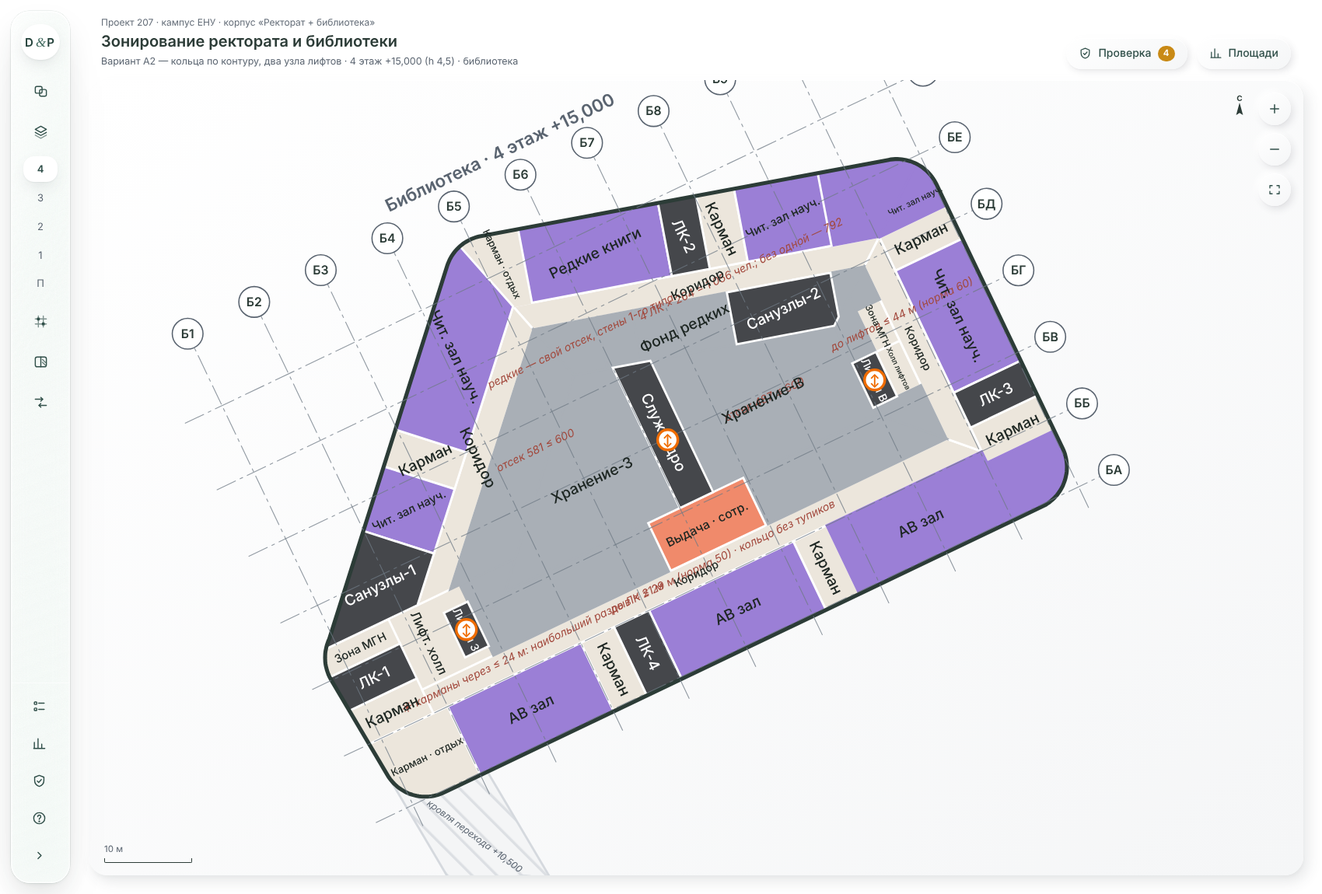
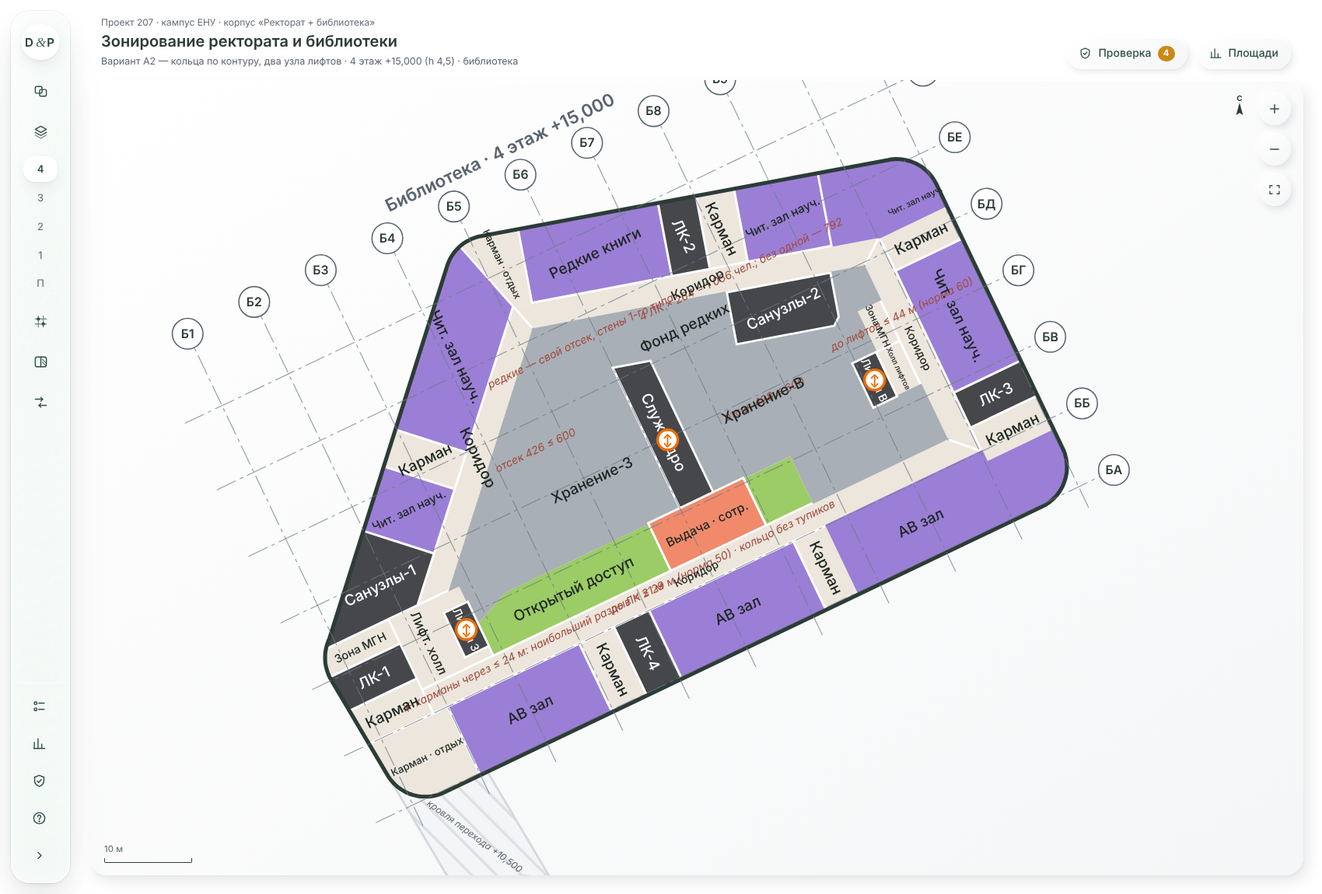
А2: программа по строкам табл. 26 ≥ 70 %, правки 1 этажа и подвала
Claude-Session: https://claude.ai/code/session_01PBUMDRyqQNphWJTD6zJTqL

diff --git a/agents/A2/LIB_A2.html b/agents/A2/LIB_A2.html
@@ -522,7 +522,8 @@ for(const f of ["2","3"]){
 }
 {const f="4",sw="4 этаж: хранение до кольцевого коридора (кольца ОД нет, задание); отсек ≤ 600 м² (п. 4.2.1.69); выходы в ядро и в коридор (п. 5.3.1.29); дверь в коридор — только эвакуационная, по пропуску.";
   PB(f,[15.6,38,-5,60],[sideP("S",CO,OI)],"z6","oa4","Открытый доступ","Открытый доступ научного отделения и АВ (4 эт.) при выдаче",oaW+" На 4 этаже — у пункта выдачи (А1 Г-2: на 4 эт. ОД не было).",{p:"store",nl:true});
-  PB(f,[50,90,-5,60],[sideP("S",CO,OI)],"z7","stE4","","Основное книгохранилище, восточный отсек (4 эт.)",sw,{p:"store",nl:true,jn:true});
+  PB(f,[50,56,-5,60],[sideP("S",CO,OI)],"z6","oa4b","","Открытый доступ научного отделения и АВ (4 эт.) при выдаче",oaW,{p:"store",nl:true});
+  PB(f,[56,90,-5,60],[sideP("S",CO,OI)],"z7","stE4","","Основное книгохранилище, восточный отсек (4 эт.)",sw,{p:"store",nl:true,jn:true});
   for(const key of ["CW","W1","W2"])PC(f,key,"z7","stW4",key==="CW"?"Хранение-З":"","Основное книгохранилище, западный отсек (4 эт.)",sw,{p:"store",nl:true,jn:true});
   for(const key of ["CE","E1","E2","E3","N3"])PC(f,key,"z7","stE4",key==="CE"?"Хранение-В":"","Основное книгохранилище, восточный отсек (4 эт.)",sw,{p:"store",nl:true,jn:true});
   PB(f,[38,50,-5,60],[sideP("S",CO,OI)],"z5","iss4","Выдача · сотр.","Пункт выдачи 4 этажа и рабочие места сотрудников хранения (52 м²)","У южного торца служебного ядра, смежно с обоими отсеками хранилища (табл. 26; СП РК 3.02-120 п. 4.4.10.8, по коллеге; А1 А-4); книги — книгоподъёмником. Без окна — отступление: окно здесь можно дать только за счёт зала.",{p:"store",nl:true});
@@ -585,8 +586,9 @@ for(const f of UP){
     "Главный вход — середина ЗСЗ-фасада (задание); доконтрольная зона (п. 3.108): гардероб — напротив входа, контроль — на юг, абонементы и лекционный зал — на север.");
   const kh="Зона за контролем (п. 3.108): холл у лифтов З и ЛК-1, ведёт в коридор Ю к каталогам и СБО.";
   PB(F,WV,[sideP("W",CI,CO),S1(-30,T_TOIL)],"cor","lhall","","Холл за контролем: лифты З, ЛК-1",kh,J);
-  PC(F,"W1","cor","lhall","","Холл за контролем: лифты З, ЛК-1",kh,J);
-  PB(F,WV,[sideP("W",CO,OI),S1(-30,T_TOIL)],"cor","lhall","","Холл за контролем: лифты З, ЛК-1",kh,J);
+  const ek="Зона электронного каталога у лифтов, за контролем: терминалы ЭК вместо части карточных каталогов (решение архитектора); без постоянных рабочих мест — без окон допустимо.";
+  PC(F,"W1","z1","ekat","","Зона электронного каталога (терминалы)",ek,{p:"cat",nl:true,jn:true});
+  PB(F,WV,[sideP("W",CO,OI),S1(-30,T_TOIL)],"z1","ekat","ЭК","Зона электронного каталога (терминалы)",ek,{p:"cat",nl:true,jn:true});
   const cw="Один пост контроля на входе в зону за контролем (п. 3.108; А1 В-1, В-2): турникеты и распашная аварийная створка 1,2 м (СН РК 2.02-01 п. 5.2.2, по коллеге; А1 Е-8).";
   PB(F,WV,[sideP("W",CI,CO),S1(T_TOIL,29.5)],"z1","ctrl","Контроль","Пункт контроля: турникеты и аварийная створка",cw,J);
   PB(F,WV,[sideP("W",CO,OI),S1(T_TOIL,29.5)],"z1","ctrl","","Пункт контроля: турникеты и аварийная створка",cw,J);
@@ -608,7 +610,7 @@ for(const f of UP){
   PC(F,"SD","cor","svh","","Служебный холл у ядра (тамбур книгоподъёмников)",sh,J);
   PB(F,[46.2,56.2,-5,60],[sideP("S",CO,OI)],"cor","svh","Служ. холл","Служебный холл у ядра (тамбур книгоподъёмников)",sh,J);
   PB(F,[56.2,90,11.4,13.8],[sideP("S",CO,OI)],"cor","svh","","Служебный холл у ядра (тамбур книгоподъёмников)",sh,J);
-  PB(F,[56.2,90,13.8,60],[sideP("S",CO,OI)],"z7","svcS","Кладовые","Служебно-производственные: кладовые, обменный фонд","Служебная зона; без окон (п. 5.4.6.4 — кладовые).",{p:"serv",nl:true});
+  PB(F,[56.2,90,13.8,60],[sideP("S",CO,OI)],"z7","abF3","Фонд абонем.","Фонд абонементов (служебная часть): резерв и обменный фонд","Служебная зона, у служебного холла и ядра; книги к выдаче абонементов — через ядро; без окон — стеллажи.",{p:"abon",nl:true});
   PC(F,"E1","cor","exped","Экспедиция","Экспедиция: зона приёмки у служебного входа","У служебного входа, напротив обработки (п. 3.109; путь книги ≤ 15 м); связывает служебный коридор В и служебный холл у ядра.");
   PC(F,"E2","z5","eat","","Комната приёма пищи персонала","СН РК 3.02-08 п. 5.4.4.29; у лифтов В и санузла персонала; под ней в подвале — венткамера, не хранение (п. 4.4.10.11).",{p:"serv",nl:true,jn:true});
   PC(F,"E3","z5","eat","Приём пищи","Комната приёма пищи персонала","Служебная зона.",{p:"serv",nl:true,jn:true});
@@ -620,8 +622,8 @@ for(const f of UP){
     "При служебном входе (п. 3.109; СН РК 3.02-08 п. 5.4.4.23); сухое помещение над хранением подвала; вход из служебного холла у ядра.",{p:"serv",nl:true});
   PB(F,[56,90,-5,60],[quad(OI)],"z7","abF2","Фонд абонем.","Фонд абонементов (служебная часть) и обменный фонд","За выдачей абонементов, у ядра и лифтов В; без окон — стеллажи (п. 5.4.6.4).",{p:"abon",nl:true});
   // — фасады 1 этажа —
-  L(F,-3,8.4,-1,8.4,"core","wcK","Санузел","Санузел читателей за контролем (М, Ж, МГН)","В зоне за контролем есть санузлы (пособие п. 3.108; А1 З-7); под ним в подвале — насосная, не хранение.");
-  L(F,8.4,25,-1,8.4,"z1","cat","Каталоги","Читательские каталоги и электронный каталог (с окнами)",
+  L(F,-3,3.6,-1,8.4,"core","wcK","Санузел","Санузел читателей за контролем (М, Ж, МГН)","В зоне за контролем есть санузлы (пособие п. 3.108; А1 З-7); под ним в подвале — насосная, не хранение.");
+  L(F,3.6,25,-1,8.4,"z1","cat","Каталоги","Читательские каталоги и электронный каталог (с окнами)",
     "За контролем (п. 3.108), окна ЮЮВ — рабочие места с дневным светом (п. 3.40; А1 Ж-2); часть карточных каталогов — электронный поиск (решение архитектора).",{p:"cat"});
   L(F,33.8,52,-1,8.4,"z1","sbo","СБО","Справочно-библиографический отдел (с окнами)","За контролем, окна ЮЮВ (п. 3.40).",{p:"cat"});
   L(F,56.2,64.6,-1,8.4,"z5","mba","МБА","Межбиблиотечный абонемент","1 этаж (решение архитектора); окно выдачи — в карман Ю-2 зоны за контролем, вход сотрудников — из служебного коридора: между читателем и служебной зоной.",{p:"serv"});
@@ -677,20 +679,20 @@ for(const f of UP){
   PB(F,WV,[WB,strip(T_TOIL,36)],"z7","elec","Электрощитовая","Электрощитовая, ВРУ","≥ 9 м от хранения (решение архитектора): за коридором и лабораторией копирования; отдельная противопожарная секция.",NL);
   PB(F,WV,[WB,strip(36,45)],"z7","srv","Серверная","Серверная и слаботочные системы","Сухое, у электрощитовой.",NL);
   const aw="Служебно-производственные помещения подвала: архив, хозяйственные кладовые, переплётные материалы (табл. 26); сухие, у коридора.";
-  PB(F,WV,[WB,strip(45,54.5)],"z7","ventW","Венткамеры","Приточно-вытяжные венткамеры (под вестибюлем)","Сухие; над ними вестибюль, не залы и не рабочие помещения (СН РК п. 5.1.10).",NL);
+  PB(F,WV,[WB,strip(45,54.5)],"z7","arch2","Архив","Служебно-производственные: архив библиотеки",aw,{p:"serv",nl:true});
   PB(F,WV,[WB,strip(54.5,80)],"z7","arch","Архив, кладовые","Служебно-производственные: архив и кладовые (СЗ)",aw,{p:"serv",nl:true,...J});
   PB(F,ALL,[NB_,stripN(-60,40.2)],"z7","arch","","Служебно-производственные: архив и кладовые (СЗ)",aw,{p:"serv",nl:true,...J});
-  PB(F,ALL,[NB_,stripN(44.6,58.7)],"z7","arch","","Служебно-производственные: архив и кладовые (С)",aw,{p:"serv",nl:true,...J});
+  PB(F,ALL,[NB_,stripN(44.6,58.7)],"z5","bind","Переплётная","Лаборатория реставрации: переплётная и дезинфекция",lw+" У коридора С, рядом с реставрацией.",{p:"serv",nl:true});
   PB(F,ALL,[NB_,stripN(58.7,120)],"z7","fire","АУПТ","Станция пожаротушения (спринклеры во всём здании, газ — хранилища)","Выбор А1 (расхождение 1): АУПТ во всём здании; насосная — у ЛК-2 и выхода (допущение).",{nl:true,...J});
   PB(F,[-5,90,35.4,60],[EB],"z7","fire","","Станция пожаротушения","Часть станции, СВ угол.",{nl:true,...J});
   PB(F,[-5,90,31.2,35.4],[EB],"z7","vent2","Венткамера","Приточно-вытяжная венткамера (В)","Сухое помещение; основное вентоборудование — на кровле (допущение).",NL);
   PB(F,[-5,90,15.8,31.2],[EB],"z7","bst4","Хранение П-4","Основное книгохранилище, подвал, отсек П-4 (В)",sw,{p:"store",nl:true});
   L(F,75.8,90,7.0,11.4,"z7","comp3","","Компактное хранение, отсек К-2",cw,{p:"store",nl:true,...J});
   L(F,25,29.4,-1,8.4,"z7","comp1","","Компактное хранение, отсек К-1",cw,{p:"store",nl:true,jn:true});
-  L(F,52,56.2,-1,8.4,"z7","vent5","Венткамера","Венткамера (Ю-2)","Сухое помещение между отсеками компактного хранения.",NL);
+  L(F,52,56.2,-1,8.4,"z7","comp3","","Компактное хранение, отсек К-2",cw,{p:"store",nl:true,jn:true});
   NOTES.push({f:F,c:"LIB",u:44,v:9.9,t:"перегородка 1-го типа по u 46,2: секция З ≈ 1 900 м² · секция В ≈ 1 900 м² (≤ 3 000), в каждой ≥ 2 выхода"},
     {f:F,c:"LIB",u:30,v:24,t:"П-1 ≤ 600 · выходы: коридор Ю и ядро"},{f:F,c:"LIB",u:58,v:22,t:"П-2 ≤ 600 · выходы: коридор Ю и ядро"},
-    {f:F,c:"LIB",u:8,v:30,t:"электрощитовая ≥ 9 м от хранения"});
+    {f:F,c:"LIB",u:8,v:30,t:"электрощитовая ≥ 9 м от хранения"},{f:F,c:"LIB",u:30,v:-3,t:"основное вентоборудование — на кровле (допущение)"});
 }
 
 // ═════════ ВХОДЫ, ВЕРТИКАЛИ ═════════
@@ -724,7 +726,7 @@ for(const f of UP){
   NOTES.push({f,c:"LIB",u:74.3,v:26,t:"до лифтов ≤ 44 м (норма 60)"});
   NOTES.push({f,c:"LIB",u:60,v:38.5,t:"4 ЛК × 264 = 1 056 чел.; без одной — 792"});
   if(f!=="4")NOTES.push({f,c:"LIB",u:30,v:30,t:"отсек ≤ 600"},{f,c:"LIB",u:56,v:24,t:"отсек ≤ 600"});
-  else NOTES.push({f,c:"LIB",u:30,v:30,t:"отсек 581 ≤ 600"},{f,c:"LIB",u:56,v:24,t:"отсек 487 ≤ 600"},{f,c:"LIB",u:40,v:39,t:"редкие — свой отсек, стены 1-го типа"});
+  else NOTES.push({f,c:"LIB",u:30,v:30,t:"отсек 426 ≤ 600"},{f,c:"LIB",u:56,v:24,t:"отсек 428 ≤ 600"},{f,c:"LIB",u:40,v:39,t:"редкие — свой отсек, стены 1-го типа"});
 }
 NOTES.push({f:"2",c:"LIB",u:2,v:4,t:"стена и двери 1-го типа к переходу"});
 

diff --git a/agents/A2/zoning_A2.js b/agents/A2/zoning_A2.js
@@ -137,7 +137,8 @@ for(const f of ["2","3"]){
 }
 {const f="4",sw="4 этаж: хранение до кольцевого коридора (кольца ОД нет, задание); отсек ≤ 600 м² (п. 4.2.1.69); выходы в ядро и в коридор (п. 5.3.1.29); дверь в коридор — только эвакуационная, по пропуску.";
   PB(f,[15.6,38,-5,60],[sideP("S",CO,OI)],"z6","oa4","Открытый доступ","Открытый доступ научного отделения и АВ (4 эт.) при выдаче",oaW+" На 4 этаже — у пункта выдачи (А1 Г-2: на 4 эт. ОД не было).",{p:"store",nl:true});
-  PB(f,[50,90,-5,60],[sideP("S",CO,OI)],"z7","stE4","","Основное книгохранилище, восточный отсек (4 эт.)",sw,{p:"store",nl:true,jn:true});
+  PB(f,[50,56,-5,60],[sideP("S",CO,OI)],"z6","oa4b","","Открытый доступ научного отделения и АВ (4 эт.) при выдаче",oaW,{p:"store",nl:true});
+  PB(f,[56,90,-5,60],[sideP("S",CO,OI)],"z7","stE4","","Основное книгохранилище, восточный отсек (4 эт.)",sw,{p:"store",nl:true,jn:true});
   for(const key of ["CW","W1","W2"])PC(f,key,"z7","stW4",key==="CW"?"Хранение-З":"","Основное книгохранилище, западный отсек (4 эт.)",sw,{p:"store",nl:true,jn:true});
   for(const key of ["CE","E1","E2","E3","N3"])PC(f,key,"z7","stE4",key==="CE"?"Хранение-В":"","Основное книгохранилище, восточный отсек (4 эт.)",sw,{p:"store",nl:true,jn:true});
   PB(f,[38,50,-5,60],[sideP("S",CO,OI)],"z5","iss4","Выдача · сотр.","Пункт выдачи 4 этажа и рабочие места сотрудников хранения (52 м²)","У южного торца служебного ядра, смежно с обоими отсеками хранилища (табл. 26; СП РК 3.02-120 п. 4.4.10.8, по коллеге; А1 А-4); книги — книгоподъёмником. Без окна — отступление: окно здесь можно дать только за счёт зала.",{p:"store",nl:true});
@@ -200,8 +201,9 @@ for(const f of UP){
     "Главный вход — середина ЗСЗ-фасада (задание); доконтрольная зона (п. 3.108): гардероб — напротив входа, контроль — на юг, абонементы и лекционный зал — на север.");
   const kh="Зона за контролем (п. 3.108): холл у лифтов З и ЛК-1, ведёт в коридор Ю к каталогам и СБО.";
   PB(F,WV,[sideP("W",CI,CO),S1(-30,T_TOIL)],"cor","lhall","","Холл за контролем: лифты З, ЛК-1",kh,J);
-  PC(F,"W1","cor","lhall","","Холл за контролем: лифты З, ЛК-1",kh,J);
-  PB(F,WV,[sideP("W",CO,OI),S1(-30,T_TOIL)],"cor","lhall","","Холл за контролем: лифты З, ЛК-1",kh,J);
+  const ek="Зона электронного каталога у лифтов, за контролем: терминалы ЭК вместо части карточных каталогов (решение архитектора); без постоянных рабочих мест — без окон допустимо.";
+  PC(F,"W1","z1","ekat","","Зона электронного каталога (терминалы)",ek,{p:"cat",nl:true,jn:true});
+  PB(F,WV,[sideP("W",CO,OI),S1(-30,T_TOIL)],"z1","ekat","ЭК","Зона электронного каталога (терминалы)",ek,{p:"cat",nl:true,jn:true});
   const cw="Один пост контроля на входе в зону за контролем (п. 3.108; А1 В-1, В-2): турникеты и распашная аварийная створка 1,2 м (СН РК 2.02-01 п. 5.2.2, по коллеге; А1 Е-8).";
   PB(F,WV,[sideP("W",CI,CO),S1(T_TOIL,29.5)],"z1","ctrl","Контроль","Пункт контроля: турникеты и аварийная створка",cw,J);
   PB(F,WV,[sideP("W",CO,OI),S1(T_TOIL,29.5)],"z1","ctrl","","Пункт контроля: турникеты и аварийная створка",cw,J);
@@ -223,7 +225,7 @@ for(const f of UP){
   PC(F,"SD","cor","svh","","Служебный холл у ядра (тамбур книгоподъёмников)",sh,J);
   PB(F,[46.2,56.2,-5,60],[sideP("S",CO,OI)],"cor","svh","Служ. холл","Служебный холл у ядра (тамбур книгоподъёмников)",sh,J);
   PB(F,[56.2,90,11.4,13.8],[sideP("S",CO,OI)],"cor","svh","","Служебный холл у ядра (тамбур книгоподъёмников)",sh,J);
-  PB(F,[56.2,90,13.8,60],[sideP("S",CO,OI)],"z7","svcS","Кладовые","Служебно-производственные: кладовые, обменный фонд","Служебная зона; без окон (п. 5.4.6.4 — кладовые).",{p:"serv",nl:true});
+  PB(F,[56.2,90,13.8,60],[sideP("S",CO,OI)],"z7","abF3","Фонд абонем.","Фонд абонементов (служебная часть): резерв и обменный фонд","Служебная зона, у служебного холла и ядра; книги к выдаче абонементов — через ядро; без окон — стеллажи.",{p:"abon",nl:true});
   PC(F,"E1","cor","exped","Экспедиция","Экспедиция: зона приёмки у служебного входа","У служебного входа, напротив обработки (п. 3.109; путь книги ≤ 15 м); связывает служебный коридор В и служебный холл у ядра.");
   PC(F,"E2","z5","eat","","Комната приёма пищи персонала","СН РК 3.02-08 п. 5.4.4.29; у лифтов В и санузла персонала; под ней в подвале — венткамера, не хранение (п. 4.4.10.11).",{p:"serv",nl:true,jn:true});
   PC(F,"E3","z5","eat","Приём пищи","Комната приёма пищи персонала","Служебная зона.",{p:"serv",nl:true,jn:true});
@@ -235,8 +237,8 @@ for(const f of UP){
     "При служебном входе (п. 3.109; СН РК 3.02-08 п. 5.4.4.23); сухое помещение над хранением подвала; вход из служебного холла у ядра.",{p:"serv",nl:true});
   PB(F,[56,90,-5,60],[quad(OI)],"z7","abF2","Фонд абонем.","Фонд абонементов (служебная часть) и обменный фонд","За выдачей абонементов, у ядра и лифтов В; без окон — стеллажи (п. 5.4.6.4).",{p:"abon",nl:true});
   // — фасады 1 этажа —
-  L(F,-3,8.4,-1,8.4,"core","wcK","Санузел","Санузел читателей за контролем (М, Ж, МГН)","В зоне за контролем есть санузлы (пособие п. 3.108; А1 З-7); под ним в подвале — насосная, не хранение.");
-  L(F,8.4,25,-1,8.4,"z1","cat","Каталоги","Читательские каталоги и электронный каталог (с окнами)",
+  L(F,-3,3.6,-1,8.4,"core","wcK","Санузел","Санузел читателей за контролем (М, Ж, МГН)","В зоне за контролем есть санузлы (пособие п. 3.108; А1 З-7); под ним в подвале — насосная, не хранение.");
+  L(F,3.6,25,-1,8.4,"z1","cat","Каталоги","Читательские каталоги и электронный каталог (с окнами)",
     "За контролем (п. 3.108), окна ЮЮВ — рабочие места с дневным светом (п. 3.40; А1 Ж-2); часть карточных каталогов — электронный поиск (решение архитектора).",{p:"cat"});
   L(F,33.8,52,-1,8.4,"z1","sbo","СБО","Справочно-библиографический отдел (с окнами)","За контролем, окна ЮЮВ (п. 3.40).",{p:"cat"});
   L(F,56.2,64.6,-1,8.4,"z5","mba","МБА","Межбиблиотечный абонемент","1 этаж (решение архитектора); окно выдачи — в карман Ю-2 зоны за контролем, вход сотрудников — из служебного коридора: между читателем и служебной зоной.",{p:"serv"});
@@ -292,20 +294,20 @@ for(const f of UP){
   PB(F,WV,[WB,strip(T_TOIL,36)],"z7","elec","Электрощитовая","Электрощитовая, ВРУ","≥ 9 м от хранения (решение архитектора): за коридором и лабораторией копирования; отдельная противопожарная секция.",NL);
   PB(F,WV,[WB,strip(36,45)],"z7","srv","Серверная","Серверная и слаботочные системы","Сухое, у электрощитовой.",NL);
   const aw="Служебно-производственные помещения подвала: архив, хозяйственные кладовые, переплётные материалы (табл. 26); сухие, у коридора.";
-  PB(F,WV,[WB,strip(45,54.5)],"z7","ventW","Венткамеры","Приточно-вытяжные венткамеры (под вестибюлем)","Сухие; над ними вестибюль, не залы и не рабочие помещения (СН РК п. 5.1.10).",NL);
+  PB(F,WV,[WB,strip(45,54.5)],"z7","arch2","Архив","Служебно-производственные: архив библиотеки",aw,{p:"serv",nl:true});
   PB(F,WV,[WB,strip(54.5,80)],"z7","arch","Архив, кладовые","Служебно-производственные: архив и кладовые (СЗ)",aw,{p:"serv",nl:true,...J});
   PB(F,ALL,[NB_,stripN(-60,40.2)],"z7","arch","","Служебно-производственные: архив и кладовые (СЗ)",aw,{p:"serv",nl:true,...J});
-  PB(F,ALL,[NB_,stripN(44.6,58.7)],"z7","arch","","Служебно-производственные: архив и кладовые (С)",aw,{p:"serv",nl:true,...J});
+  PB(F,ALL,[NB_,stripN(44.6,58.7)],"z5","bind","Переплётная","Лаборатория реставрации: переплётная и дезинфекция",lw+" У коридора С, рядом с реставрацией.",{p:"serv",nl:true});
   PB(F,ALL,[NB_,stripN(58.7,120)],"z7","fire","АУПТ","Станция пожаротушения (спринклеры во всём здании, газ — хранилища)","Выбор А1 (расхождение 1): АУПТ во всём здании; насосная — у ЛК-2 и выхода (допущение).",{nl:true,...J});
   PB(F,[-5,90,35.4,60],[EB],"z7","fire","","Станция пожаротушения","Часть станции, СВ угол.",{nl:true,...J});
   PB(F,[-5,90,31.2,35.4],[EB],"z7","vent2","Венткамера","Приточно-вытяжная венткамера (В)","Сухое помещение; основное вентоборудование — на кровле (допущение).",NL);
   PB(F,[-5,90,15.8,31.2],[EB],"z7","bst4","Хранение П-4","Основное книгохранилище, подвал, отсек П-4 (В)",sw,{p:"store",nl:true});
   L(F,75.8,90,7.0,11.4,"z7","comp3","","Компактное хранение, отсек К-2",cw,{p:"store",nl:true,...J});
   L(F,25,29.4,-1,8.4,"z7","comp1","","Компактное хранение, отсек К-1",cw,{p:"store",nl:true,jn:true});
-  L(F,52,56.2,-1,8.4,"z7","vent5","Венткамера","Венткамера (Ю-2)","Сухое помещение между отсеками компактного хранения.",NL);
+  L(F,52,56.2,-1,8.4,"z7","comp3","","Компактное хранение, отсек К-2",cw,{p:"store",nl:true,jn:true});
   NOTES.push({f:F,c:"LIB",u:44,v:9.9,t:"перегородка 1-го типа по u 46,2: секция З ≈ 1 900 м² · секция В ≈ 1 900 м² (≤ 3 000), в каждой ≥ 2 выхода"},
     {f:F,c:"LIB",u:30,v:24,t:"П-1 ≤ 600 · выходы: коридор Ю и ядро"},{f:F,c:"LIB",u:58,v:22,t:"П-2 ≤ 600 · выходы: коридор Ю и ядро"},
-    {f:F,c:"LIB",u:8,v:30,t:"электрощитовая ≥ 9 м от хранения"});
+    {f:F,c:"LIB",u:8,v:30,t:"электрощитовая ≥ 9 м от хранения"},{f:F,c:"LIB",u:30,v:-3,t:"основное вентоборудование — на кровле (допущение)"});
 }
 
 // ═════════ ВХОДЫ, ВЕРТИКАЛИ ═════════
@@ -339,6 +341,6 @@ for(const f of UP){
   NOTES.push({f,c:"LIB",u:74.3,v:26,t:"до лифтов ≤ 44 м (норма 60)"});
   NOTES.push({f,c:"LIB",u:60,v:38.5,t:"4 ЛК × 264 = 1 056 чел.; без одной — 792"});
   if(f!=="4")NOTES.push({f,c:"LIB",u:30,v:30,t:"отсек ≤ 600"},{f,c:"LIB",u:56,v:24,t:"отсек ≤ 600"});
-  else NOTES.push({f,c:"LIB",u:30,v:30,t:"отсек 581 ≤ 600"},{f,c:"LIB",u:56,v:24,t:"отсек 487 ≤ 600"},{f,c:"LIB",u:40,v:39,t:"редкие — свой отсек, стены 1-го типа"});
+  else NOTES.push({f,c:"LIB",u:30,v:30,t:"отсек 426 ≤ 600"},{f,c:"LIB",u:56,v:24,t:"отсек 428 ≤ 600"},{f,c:"LIB",u:40,v:39,t:"редкие — свой отсек, стены 1-го типа"});
 }
 NOTES.push({f:"2",c:"LIB",u:2,v:4,t:"стена и двери 1-го типа к переходу"});

diff --git a/agents/A2/SYSTEM.md b/agents/A2/SYSTEM.md
@@ -47,6 +47,7 @@
 - Внутри зала путь — от дальней точки до двери по прямой × 1,2 (мебель; допущение, взято у А3).
 - Пути — по осевым линиям коридоров и холлов. Удобно считать по сетке 0,5 м поиском в ширину по блокам `cor` и холлам.
 - Смежность: общая граница двух блоков ≥ 1,0 м.
+- Глубина от окна = `depth(b)` − 0,3 м. Движок меряет от наружной грани контура, а свет входит у внутренней грани стены. Правка для всех вариантов одинаковая; добавлена на шаге 4, когда выяснилось, что все залы у южного фасада и в 2К, и в А2 выходят на 8,6 м.
 
 **1.4. Люди на этаже** (п. 5.3.2.15 СН РК 3.02-07).
 - Берём **брутто** площадь залов — это даёт запас.
